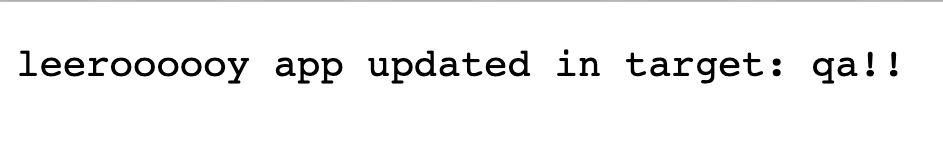
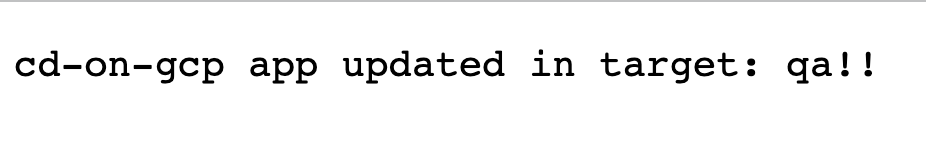
Readme update

Changed region(s): [[0.0, 0.2953, 0.9676, 0.5638]]

diff --git a/README.md b/README.md
@@ -64,7 +64,7 @@ Using these assets and following the instructions below you could experiment an 
 
 
 8. Now, let’s try to update the application to see the change implemented immediately in the deployment on the cluster, open the **app.go** file in **cdongcp-app folder** in **Cloud Shell Editor**
-9. Change the message in row 25 to “`cd-on-gcp app **updated** in target: …`”, you should see the build and deployment process starting immediately
+9. Change the message in row 25 to “`cd-on-gcp app updated in target: …`”, you should see the build and deployment process starting immediately
 10. At the end of the deploy click again on the forwarded url or refresh the browser window with the application to see your change deployed
 
 ![alt_text](images/image2b.png "App updated")
@@ -99,7 +99,7 @@ Using these assets and following the instructions below you could experiment an 
 
 
 
-![alt_text](images/image4.png "image_tooltip")
+![alt_text](images/image4.png "Cloud build Trigger Logs")
 
 
 
@@ -110,7 +110,7 @@ Using these assets and following the instructions below you could experiment an 
 
 
 
-![alt_text](images/image5.png "image_tooltip")
+![alt_text](images/image5.png "Cloud Deploy Release")
 
 
 
@@ -138,14 +138,47 @@ service/cdongcp-app   LoadBalancer   10.4.15.58   35.240.121.132   80:30981/TCP 
 
 
 
-![alt_text](images/image6.png "image_tooltip")
+![alt_text](images/image6.png "App updated in QA")
 
 
 
 
 22. Let’s pretend that the QA team performs some usability test now, when they are happy, go back to the Github page from your main account and merge the PR
-23. This will trigger the execution of the trigger linked to the [release-prod.yaml](release-prod.yaml) build, if you go back to Cloud Build history you should see a new build running
+23. This will cause the execution of the trigger linked to the [release-prod.yaml](release-prod.yaml) build, promoting the previously created release to the prod environment. If you go back to Cloud Build history you should see a new build running
+
+![alt_text](images/image7.png "Release Prod Trigger Log")
+
 24. After the build completes you will see an approval request in the Cloud Deploy pipeline
-25. Click on Review and then approve the request
-26. With kubectl, using the context of the Prod GKE cluster, view the Pods and services created
-27. Get the external ip address for the **cdongcp-app** Service get to the address with your broswer, you should see the app deployed in Prod
+
+![alt_text](images/image8.png "Approval Request")
+
+25. Click on Review, you will see a rollout that Needs approval, click on Review again 
+
+![alt_text](images/image9.png "Approval Request")
+
+26. Click on the Approval button
+
+![alt_text](images/image10.png "Approve")
+
+27. If you go back to the Delivery Pipeline visualization in Cloud Deploy you will see the rollout deployed in prod.
+
+![alt_text](images/image11.png "Rollout in Prod")
+
+28. With kubectl, using the context of the Prod GKE cluster, view the Pods and services created, you will notice that in prod the deployment has 3 replicas since the Skaffold profile for prod apply this configuration made with kustomize in the [prod/target.yaml](cdongcp-app/kubernetes/prod/target.yaml) manifest.
+
+```
+cd-on-gcp git:(main) kubectl --context=prod-cluster get pod,svc
+NAME                               READY   STATUS    RESTARTS   AGE
+pod/cdongcp-app-6d59f89c6b-g697n   1/1     Running   0          5m10s
+pod/cdongcp-app-6d59f89c6b-jqzkd   1/1     Running   0          5m10s
+pod/cdongcp-app-6d59f89c6b-ms6v7   1/1     Running   0          5m10s
+
+NAME                  TYPE           CLUSTER-IP    EXTERNAL-IP    PORT(S)        AGE
+service/cdongcp-app   LoadBalancer   10.52.11.35   35.240.3.156   80:31347/TCP   5m12s
+service/kubernetes    ClusterIP      10.52.0.1     <none>         443/TCP        45d
+
+```
+
+29. Get the external ip address for the **cdongcp-app** Service get to the address with your broswer, you should see the app deployed in Prod
+
+![alt_text](images/image12.png "App frontpage in Prod")
